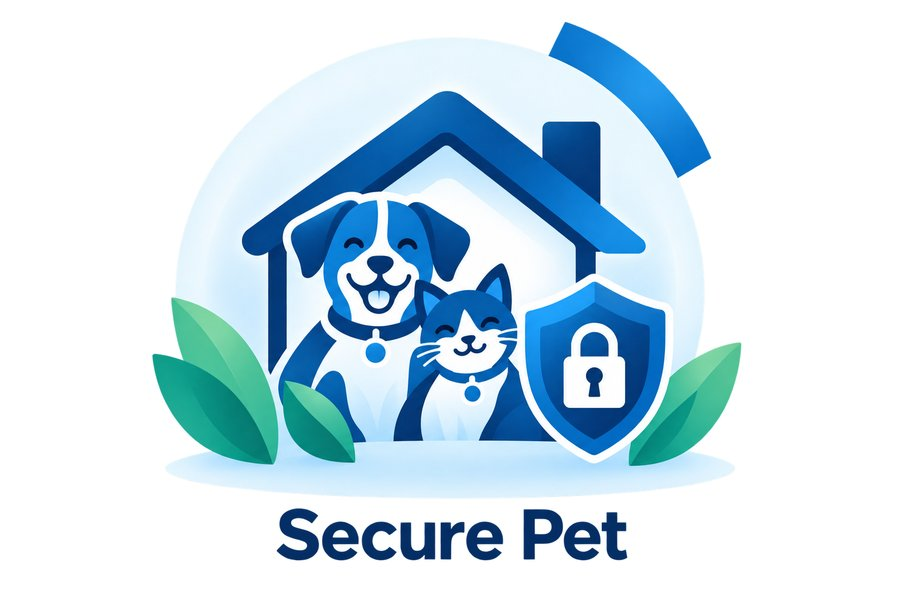
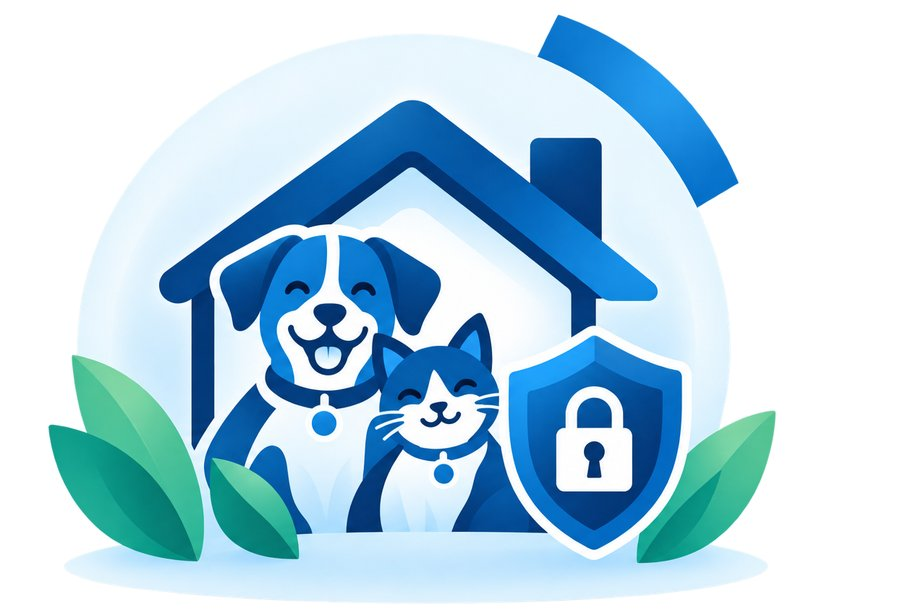
Members: text-free Secure Pet image, tighter desktop hero spacing (benefits pulled up)

diff --git a/public/members/index.html b/public/members/index.html
@@ -54,7 +54,7 @@ p{margin:0}
 .top .btn{padding:11px 16px;font-size:14px}
 
 /* Hero */
-.hero{padding:64px 0 72px}
+.hero{padding:48px 0 36px}
 .hero-grid{display:grid;grid-template-columns:1.15fr 1fr;gap:48px;align-items:center}
 .hero-video{text-align:center}
 .hero-video video{max-height:700px;max-width:100%;border-radius:10px;border:1px solid var(--grey-100);box-shadow:var(--shadow)}
@@ -70,6 +70,7 @@ p{margin:0}
 .band-img img{width:100%;height:auto;display:block;border-top:4px solid var(--navy)}
 
 section{padding:88px 0}
+#benefits{padding-top:44px}
 .sec-head{max-width:640px;margin-bottom:40px}
 .sec-head h2{font-size:clamp(30px,3.6vw,40px);line-height:1.12}
 .sec-head p{margin-top:12px;font-size:18px}
@@ -225,7 +226,7 @@ footer .logo img{height:30px;width:auto;margin-bottom:28px}
   .trade img{height:80px}
   .trade h3{font-size:16px}
   .trade .tag{white-space:normal}
-  .hero{padding-top:40px}
+  .hero{padding:40px 0 48px}
 
 }
 @media (prefers-reduced-motion:reduce){*{transition:none!important}}
@@ -429,7 +430,7 @@ footer .logo img{height:30px;width:auto;margin-bottom:28px}
       <div class="addon-grid">
[1 lines of base64/hex data omitted]
         <div class="addon-card"><img src="/members/assets/addon-smart-monitoring.jpg" width="900" height="600" alt="" loading="lazy"><div class="ad-body"><h3 data-i="ad2.t">Smart device monitoring</h3><p data-i="ad2.d">Smart metering, smart geyser control, solar PV uptime and AI monitoring of your IP cameras. Priced per device.</p><span class="tag add" data-i="tier.add">Add-on</span></div></div>
-        <div class="addon-card"><span class="badge-soon" data-i="ad3.badge">Coming soon</span><img src="/members/assets/addon-secure-pet.jpg" width="900" height="600" alt="" loading="lazy"><div class="ad-body"><h3>Secure Pet</h3><p data-i="ad3.d">We give you a tracker for your pet. If your pet goes missing, tell us and we'll help you find them.</p><a class="btn btn-ghost ad-cta" data-wa="securepet" href="#"><svg><use href="#i-wa"/></svg><span data-i="ad3.cta">Register your interest</span></a> <span class="tag add" data-i="tier.add">Add-on</span></div></div>
+        <div class="addon-card"><span class="badge-soon" data-i="ad3.badge">Coming soon</span><img src="/members/assets/addon-secure-pet.jpg" width="900" height="610" alt="" loading="lazy"><div class="ad-body"><h3>Secure Pet</h3><p data-i="ad3.d">We give you a tracker for your pet. If your pet goes missing, tell us and we'll help you find them.</p><a class="btn btn-ghost ad-cta" data-wa="securepet" href="#"><svg><use href="#i-wa"/></svg><span data-i="ad3.cta">Register your interest</span></a> <span class="tag add" data-i="tier.add">Add-on</span></div></div>
       </div>
     </div>
   </section>
